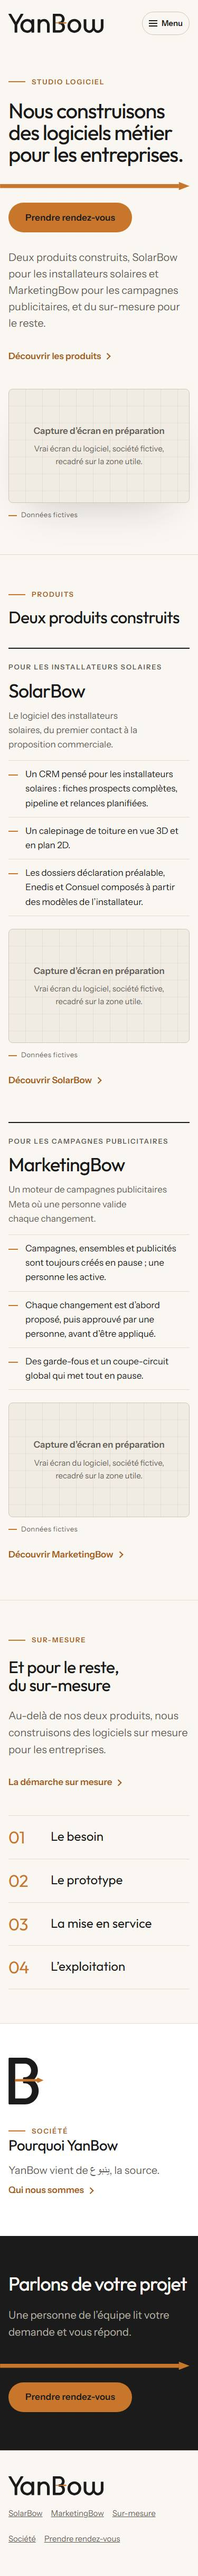
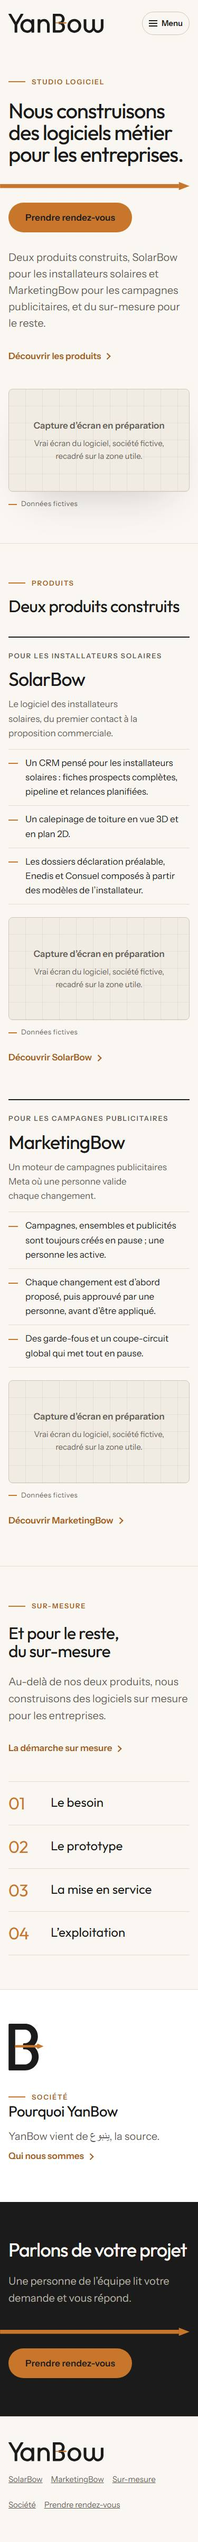
YBW81 : critique visuelle finale — corrections

diff --git a/apps/yanbow-web/src/styles/site.css b/apps/yanbow-web/src/styles/site.css
@@ -102,6 +102,19 @@ p {
   .entete-int {
     gap: var(--espace-6);
   }
+
+  /* YBW81 : le sélecteur de langue reste visible dès 40rem (le bouton RDV attend 64rem) */
+  .entete-actions {
+    display: flex;
+  }
+
+  .entete-actions .bouton-entete {
+    display: none;
+  }
+
+  .nav-mobile {
+    margin-inline-start: 0;
+  }
 }
 
 .entete-logo {
@@ -215,6 +228,8 @@ p {
   background-color: var(--fond-surface);
   border-block-end: 1px solid var(--trait);
   box-shadow: 0 1.5rem 2rem -1.5rem var(--ombre);
+  /* YBW81 : le panneau couvre le reste de l'écran, pas de second bouton orange dessous */
+  min-block-size: calc(100dvh - 100%);
 }
 
 .nav-mobile ul {
@@ -245,6 +260,10 @@ p {
   .nav-bureau,
   .entete-actions {
     display: flex;
+  }
+
+  .entete-actions .bouton-entete {
+    display: inline-flex;
   }
 
   .nav-mobile {
@@ -466,7 +485,7 @@ p {
   display: grid;
   place-content: center;
   gap: var(--espace-2);
-  aspect-ratio: 16 / 10;
+  aspect-ratio: 16 / 9;
   padding: var(--espace-6);
   text-align: center;
   color: var(--capture-texte);
@@ -652,6 +671,7 @@ p {
   font-size: clamp(2.25rem, 1.2rem + 2.8vw, 3.75rem);
   line-height: 1.02;
   letter-spacing: -0.03em;
+  text-wrap: pretty;
 }
 
 .bande-nuit .hero-intro {
@@ -661,9 +681,10 @@ p {
 .bande-nuit-actions {
   display: flex;
   flex-wrap: wrap;
-  align-items: center;
   gap: var(--espace-4) var(--espace-6);
   margin-block-start: var(--espace-2);
+  flex-direction: column;
+  align-items: flex-start;
 }
 
 .bande-nuit-actions .bouton {
@@ -722,6 +743,11 @@ p {
     grid-template-columns: minmax(0, 5fr) minmax(0, 7fr);
     column-gap: clamp(2rem, 5vw, 4.5rem);
   }
+
+  /* YBW81 : sans capture, une seule colonne (pas de vide à droite) */
+  .module:not(:has(.capture)) {
+    grid-template-columns: 1fr;
+  }
 }
 
 /* ------------------------------------------------------------ prose (pages de texte) */
@@ -737,7 +763,7 @@ p {
   letter-spacing: -0.02em;
 }
 
-.prose p {
+.prose p:not(.surtitre) {
   font-size: var(--texte-lg);
   color: var(--texte-attenue);
 }

diff --git a/apps/yanbow-web/tests/styleTokens.test.ts b/apps/yanbow-web/tests/styleTokens.test.ts
@@ -218,3 +218,17 @@ describe('YBW38 — aucun hex brut hors tokens.css', () => {
     expect(hexBruts([{ rel: 'styles/site.css', contenu: '.x{color:#fff}' }])).toEqual(['styles/site.css']);
   });
 });
+
+describe('YBW81 — les surtitres gardent leur taille', () => {
+  it('aucune règle de paragraphe (.prose p, .module p…) ne bat .surtitre : font-size reste --texte-xs', () => {
+    const regles = [...sansCommentaires(SITE).matchAll(/([^{}@]+)\{([^{}]*)\}/g)];
+    const fautives = regles
+      .filter((r) => /font-size|color\s*:/.test(r[2]))
+      .flatMap((r) => r[1].split(',').map((s) => s.trim()))
+      .filter((sel) => /^\.prose p(\.[\w-]+)?$/.test(sel) && !sel.includes(':not(.surtitre)') && !sel.endsWith('.accent'));
+    expect(fautives).toEqual([]);
+    const surtitre = regles.find((r) => r[1].trim() === '.surtitre')?.[2] ?? '';
+    expect(surtitre).toMatch(/font-size:\s*var\(--texte-xs\)/);
+    expect(SITE).toMatch(/\.prose p:not\(\.surtitre\)/);
+  });
+});

diff --git a/apps/yanbow-web/REVIEW_FR.md b/apps/yanbow-web/REVIEW_FR.md
@@ -50,57 +50,58 @@
 | 4 | MarketingBow _(en-tête)_ | — | interface |  |
 | 5 | Sur-mesure _(en-tête)_ | — | interface |  |
 | 6 | Société _(en-tête)_ | — | interface |  |
-| 7 | Prendre rendez-vous _(en-tête)_ | — | interface |  |
-| 8 | Studio logiciel | — | interface |  |
-| 9 | Nous construisons des logiciels métier pour les entreprises. | `YB-METIER` | construit | `docs/plans/PLAN_YANBOW_WEB.md:42`<br>`docs/plans/PLAN_YANBOW_WEB.md:54` |
-| 10 | Prendre rendez-vous | — | interface |  |
-| 11 | Deux produits construits, SolarBow pour les installateurs solaires et MarketingBow pour les campagnes publicitaires, et du sur-mesure pour le reste. | `YB-POSITIONNEMENT` | construit | `docs/plans/PLAN_YANBOW_WEB.md:43`<br>`docs/plans/PLAN_YANBOW_WEB.md:44`<br>`docs/plans/PLAN_YANBOW_WEB.md:54` |
-| 12 | Découvrir les produits | — | interface |  |
-| 13 | Capture d’écran en préparation | — | interface |  |
-| 14 | Vrai écran du logiciel, société fictive, recadré sur la zone utile. | — | interface |  |
-| 15 | Données fictives | — | interface |  |
-| 16 | Produits | — | interface |  |
-| 17 | Deux produits construits | — | interface |  |
-| 18 | Pour les installateurs solaires | — | interface |  |
-| 19 | SolarBow | — | interface |  |
-| 20 | Le logiciel des installateurs solaires, du premier contact à la proposition commerciale. | `SB-POUR-QUI` | construit | `backend/django_core/apps/crm/models.py:520`<br>`backend/django_core/apps/ventes/quote_engine/generate_devis_premium.py:49`<br>`docs/plans/PLAN_YANBOW_WEB.md:60` |
-| 21 | Un CRM pensé pour les installateurs solaires : fiches prospects complètes, pipeline et relances planifiées. | `SB-CRM` | construit | `backend/django_core/apps/crm/models.py:520`<br>`backend/django_core/apps/crm/models.py:1156` |
-| 22 | Un calepinage de toiture en vue 3D et en plan 2D. | `SB-CALEPINAGE-3D` | construit | `frontend/src/features/calepinage/atelier/OutilsVue.jsx:46`<br>`backend/django_core/apps/calepinage/models.py:41` |
-| 23 | Les dossiers déclaration préalable, Enedis et Consuel composés à partir des modèles de l’installateur. | `SB-PACKS-FR` | construit | `backend/django_core/apps/calepinage/services/reglementaire.py:866`<br>`backend/django_core/apps/calepinage/services/reglementaire.py:918` |
-| 24 | Capture d’écran en préparation | — | interface |  |
-| 25 | Vrai écran du logiciel, société fictive, recadré sur la zone utile. | — | interface |  |
-| 26 | Données fictives | — | interface |  |
-| 27 | Découvrir SolarBow | — | interface |  |
-| 28 | Pour les campagnes publicitaires | — | interface |  |
-| 29 | MarketingBow | — | interface |  |
-| 30 | Un moteur de campagnes publicitaires Meta où une personne valide chaque changement. | `MB-POUR-QUI` | construit | `backend/django_core/apps/adsengine/meta_client.py:741`<br>`backend/django_core/apps/adsengine/services.py:1880` |
-| 31 | Campagnes, ensembles et publicités sont toujours créés en pause ; une personne les active. | `MB-CREATION-EN-PAUSE` | construit | `backend/django_core/apps/adsengine/meta_client.py:32`<br>`backend/django_core/apps/adsengine/meta_client.py:741` |
-| 32 | Chaque changement est d’abord proposé, puis approuvé par une personne, avant d’être appliqué. | `MB-PROPOSE-APPROUVE` | construit | `backend/django_core/apps/adsengine/services.py:228`<br>`backend/django_core/apps/adsengine/services.py:1880` |
-| 33 | Des garde-fous et un coupe-circuit global qui met tout en pause. | `MB-COUPE-CIRCUIT` | construit | `backend/django_core/apps/adsengine/flightrunner.py:204` |
-| 34 | Capture d’écran en préparation | — | interface |  |
-| 35 | Vrai écran du logiciel, société fictive, recadré sur la zone utile. | — | interface |  |
-| 36 | Données fictives | — | interface |  |
-| 37 | Découvrir MarketingBow | — | interface |  |
-| 38 | Sur-mesure | — | interface |  |
-| 39 | Et pour le reste, du sur-mesure | — | interface |  |
-| 40 | Au-delà de nos deux produits, nous construisons des logiciels sur mesure pour les entreprises. | `SM-OFFRE` | construit | `docs/plans/PLAN_YANBOW_WEB.md:54`<br>`docs/plans/PLAN_YANBOW_WEB.md:42` |
-| 41 | La démarche sur mesure | — | interface |  |
-| 42 | Le besoin | — | interface |  |
-| 43 | Le prototype | — | interface |  |
-| 44 | La mise en service | — | interface |  |
-| 45 | L’exploitation | — | interface |  |
-| 46 | Société | — | interface |  |
-| 47 | Pourquoi YanBow | — | interface |  |
-| 48 | YanBow vient de ينبوع, la source. | `YB-NOM-SOURCE` | construit | `docs/plans/PLAN_YANBOW_WEB.md:198` |
-| 49 | Qui nous sommes | — | interface |  |
-| 50 | Parlons de votre projet | — | interface |  |
-| 51 | Une personne de l’équipe lit votre demande et vous répond. | `YB-REPONSE-HUMAINE` | construit | `backend/django_core/apps/crm/webhooks.py:3354`<br>`docs/plans/PLAN_YANBOW_WEB.md:56` |
-| 52 | Prendre rendez-vous | — | interface |  |
-| 53 | SolarBow _(pied)_ | — | interface |  |
-| 54 | MarketingBow _(pied)_ | — | interface |  |
-| 55 | Sur-mesure _(pied)_ | — | interface |  |
-| 56 | Société _(pied)_ | — | interface |  |
-| 57 | Prendre rendez-vous _(pied)_ | — | interface |  |
+| 7 | English _(en-tête)_ | — | interface |  |
+| 8 | Prendre rendez-vous _(en-tête)_ | — | interface |  |
+| 9 | Studio logiciel | — | interface |  |
+| 10 | Nous construisons des logiciels métier pour les entreprises. | `YB-METIER` | construit | `docs/plans/PLAN_YANBOW_WEB.md:42`<br>`docs/plans/PLAN_YANBOW_WEB.md:54` |
+| 11 | Prendre rendez-vous | — | interface |  |
+| 12 | Deux produits construits, SolarBow pour les installateurs solaires et MarketingBow pour les campagnes publicitaires, et du sur-mesure pour le reste. | `YB-POSITIONNEMENT` | construit | `docs/plans/PLAN_YANBOW_WEB.md:43`<br>`docs/plans/PLAN_YANBOW_WEB.md:44`<br>`docs/plans/PLAN_YANBOW_WEB.md:54` |
+| 13 | Découvrir les produits | — | interface |  |
+| 14 | Capture d’écran en préparation | — | interface |  |
+| 15 | Vrai écran du logiciel, société fictive, recadré sur la zone utile. | — | interface |  |
+| 16 | Données fictives | — | interface |  |
+| 17 | Produits | — | interface |  |
+| 18 | Deux produits construits | — | interface |  |
+| 19 | Pour les installateurs solaires | — | interface |  |
+| 20 | SolarBow | — | interface |  |
+| 21 | Le logiciel des installateurs solaires, du premier contact à la proposition commerciale. | `SB-POUR-QUI` | construit | `backend/django_core/apps/crm/models.py:520`<br>`backend/django_core/apps/ventes/quote_engine/generate_devis_premium.py:49`<br>`docs/plans/PLAN_YANBOW_WEB.md:60` |
+| 22 | Un CRM pensé pour les installateurs solaires : fiches prospects complètes, pipeline et relances planifiées. | `SB-CRM` | construit | `backend/django_core/apps/crm/models.py:520`<br>`backend/django_core/apps/crm/models.py:1156` |
+| 23 | Un calepinage de toiture en vue 3D et en plan 2D. | `SB-CALEPINAGE-3D` | construit | `frontend/src/features/calepinage/atelier/OutilsVue.jsx:46`<br>`backend/django_core/apps/calepinage/models.py:41` |
+| 24 | Les dossiers déclaration préalable, Enedis et Consuel composés à partir des modèles de l’installateur. | `SB-PACKS-FR` | construit | `backend/django_core/apps/calepinage/services/reglementaire.py:866`<br>`backend/django_core/apps/calepinage/services/reglementaire.py:918` |
+| 25 | Capture d’écran en préparation | — | interface |  |
+| 26 | Vrai écran du logiciel, société fictive, recadré sur la zone utile. | — | interface |  |
+| 27 | Données fictives | — | interface |  |
+| 28 | Découvrir SolarBow | — | interface |  |
+| 29 | Pour les campagnes publicitaires | — | interface |  |
+| 30 | MarketingBow | — | interface |  |
+| 31 | Un moteur de campagnes publicitaires Meta où une personne valide chaque changement. | `MB-POUR-QUI` | construit | `backend/django_core/apps/adsengine/meta_client.py:741`<br>`backend/django_core/apps/adsengine/services.py:1880` |
+| 32 | Campagnes, ensembles et publicités sont toujours créés en pause ; une personne les active. | `MB-CREATION-EN-PAUSE` | construit | `backend/django_core/apps/adsengine/meta_client.py:32`<br>`backend/django_core/apps/adsengine/meta_client.py:741` |
+| 33 | Chaque changement est d’abord proposé, puis approuvé par une personne, avant d’être appliqué. | `MB-PROPOSE-APPROUVE` | construit | `backend/django_core/apps/adsengine/services.py:228`<br>`backend/django_core/apps/adsengine/services.py:1880` |
+| 34 | Des garde-fous et un coupe-circuit global qui met tout en pause. | `MB-COUPE-CIRCUIT` | construit | `backend/django_core/apps/adsengine/flightrunner.py:204` |
+| 35 | Capture d’écran en préparation | — | interface |  |
+| 36 | Vrai écran du logiciel, société fictive, recadré sur la zone utile. | — | interface |  |
+| 37 | Données fictives | — | interface |  |
+| 38 | Découvrir MarketingBow | — | interface |  |
+| 39 | Sur-mesure | — | interface |  |
+| 40 | Et pour le reste, du sur-mesure | — | interface |  |
+| 41 | Au-delà de nos deux produits, nous construisons des logiciels sur mesure pour les entreprises. | `SM-OFFRE` | construit | `docs/plans/PLAN_YANBOW_WEB.md:54`<br>`docs/plans/PLAN_YANBOW_WEB.md:42` |
+| 42 | La démarche sur mesure | — | interface |  |
+| 43 | Le besoin | — | interface |  |
+| 44 | Le prototype | — | interface |  |
+| 45 | La mise en service | — | interface |  |
+| 46 | L’exploitation | — | interface |  |
+| 47 | Société | — | interface |  |
+| 48 | Pourquoi YanBow | — | interface |  |
+| 49 | YanBow vient de ينبوع, la source. | `YB-NOM-SOURCE` | construit | `docs/plans/PLAN_YANBOW_WEB.md:198` |
+| 50 | Qui nous sommes | — | interface |  |
+| 51 | Parlons de votre projet | — | interface |  |
+| 52 | Une personne de l’équipe lit votre demande et vous répond. | `YB-REPONSE-HUMAINE` | construit | `backend/django_core/apps/crm/webhooks.py:3354`<br>`docs/plans/PLAN_YANBOW_WEB.md:56` |
+| 53 | Prendre rendez-vous | — | interface |  |
+| 54 | SolarBow _(pied)_ | — | interface |  |
+| 55 | MarketingBow _(pied)_ | — | interface |  |
+| 56 | Sur-mesure _(pied)_ | — | interface |  |
+| 57 | Société _(pied)_ | — | interface |  |
+| 58 | Prendre rendez-vous _(pied)_ | — | interface |  |
 
 ## SolarBow — le logiciel des installateurs solaires — `/solarbow/`
 

diff --git a/apps/yanbow-web/DESIGN_ROUND.md b/apps/yanbow-web/DESIGN_ROUND.md
@@ -88,3 +88,22 @@ Non vérifié par le critique (vérifié ici après corrections, voir « Gardes 
 - `npm run build` : vert ; `npm run check` : 0 erreur (astro check + tsc).
 - `npx vitest run` : 26 fichiers, 417 tests verts (dont `tests/designCandidates.test.ts` : contrastes calculés par candidat, schéma et portée ; règles YBW38 ; règles C et B corrigées ; routes privées hors registre et non liées ; logo ; légendes).
 - `npx playwright test` : 86 verts — débordement 320/375/768/1440, axe, crawl CSP/console/stockage sur les six pages en clair ; A et B en sombre (débordement aux 4 largeurs, axe, cibles 44 px, fond sombre effectif) ; C reste blanc sous un système sombre ; menu mobile ouvert à 320 px pour les trois.
+
+## YBW81 — critique visuelle finale (10/10/2026)
+
+Critique : Fable, contexte frais, 89 captures du site complet FR+EN (48 vues mesurées : 0 débordement). Captures avant = scratchpad de la critique ; après = même script (`cap-after/`), jamais commitées ; `REVIEW_FR.md` + `review/*.jpg` régénérés. Aucun texte visible modifié.
+
+**Corrections appliquées (`src/styles/site.css`)**
+1. Surtitres dans `.prose` (grands et gris) : `.prose p:not(.surtitre)`. Garde ajoutée dans `tests/styleTokens.test.ts` (aucune règle `.prose p` ne bat `.surtitre`, qui reste en `--texte-xs` ; vérifiée rouge sur l'ancien CSS). Avant `marketingbow-fr-1440`, `societe-fr-375` → après : surtitres petits, orange, en capitales.
+2. Modules sans capture : une seule colonne (`.module:not(:has(.capture))`) ; après `marketingbow-fr-1440` : plus de colonne vide.
+3. Menu mobile ouvert : `min-block-size: calc(100dvh - 100%)` sur le panneau ; avant `menu-fr-320` / `menu-en-320` (deux boutons orange à 40 px) → après `menu-fr-320` : panneau plein écran, un seul bouton.
+4. Sélecteur de langue visible dès 40rem (le bouton RDV reste dès 64rem) ; e2e `chrome.spec.ts` « en-tête sur une seule ligne » : 37/37 verts.
+5. Actions du héros produit en colonne dans les deux langues (`.bande-nuit-actions`).
+6. `.bande-nuit h1 { text-wrap: pretty }` ; après `marketingbow-en-375-ecran1` : plus de dernier mot seul ; FR sans régression.
+7. A-4 (tranché par Reda le 10/10/2026 : oui) : `.capture-emplacement` en `aspect-ratio: 16 / 9` ; vérifié à 375 et 1440 (0 débordement, légende « Données fictives » lisible).
+
+**14 constats optionnels de la critique** : listés dans le rapport de la critique, non appliqués (hors périmètre de ce tour).
+
+**Décisions fondateur encore à trancher par Reda** : grille du héros 5fr/7fr → 6fr/6fr ; mise en forme de la signature « Your Arrow Needs 1Bow » ; ligne d'identité du pied de page (bloquée : YBWM4 contact, YBWM5/6 sociétés, « pas encore » — le pied reste sans identité). A-4 est tranché (ci-dessus).
+
+**Non inspecté** : mode sombre EN, largeurs 832-1024 px, états survol / succès / 404.
